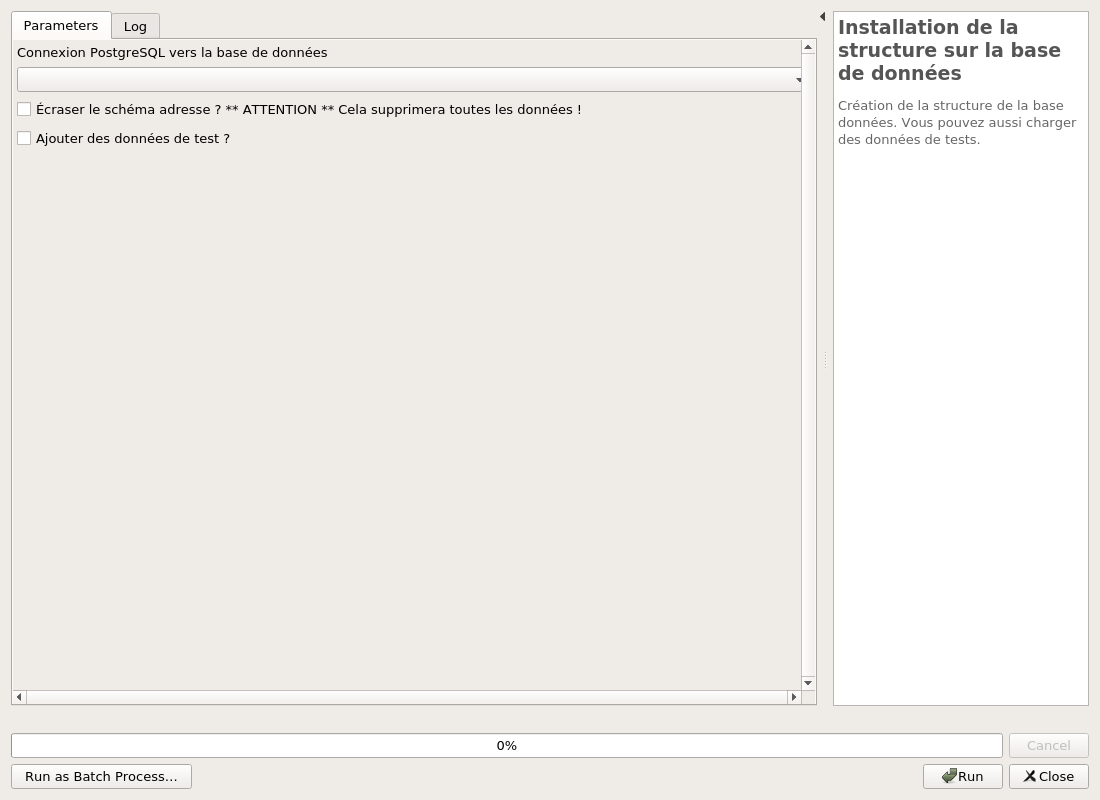
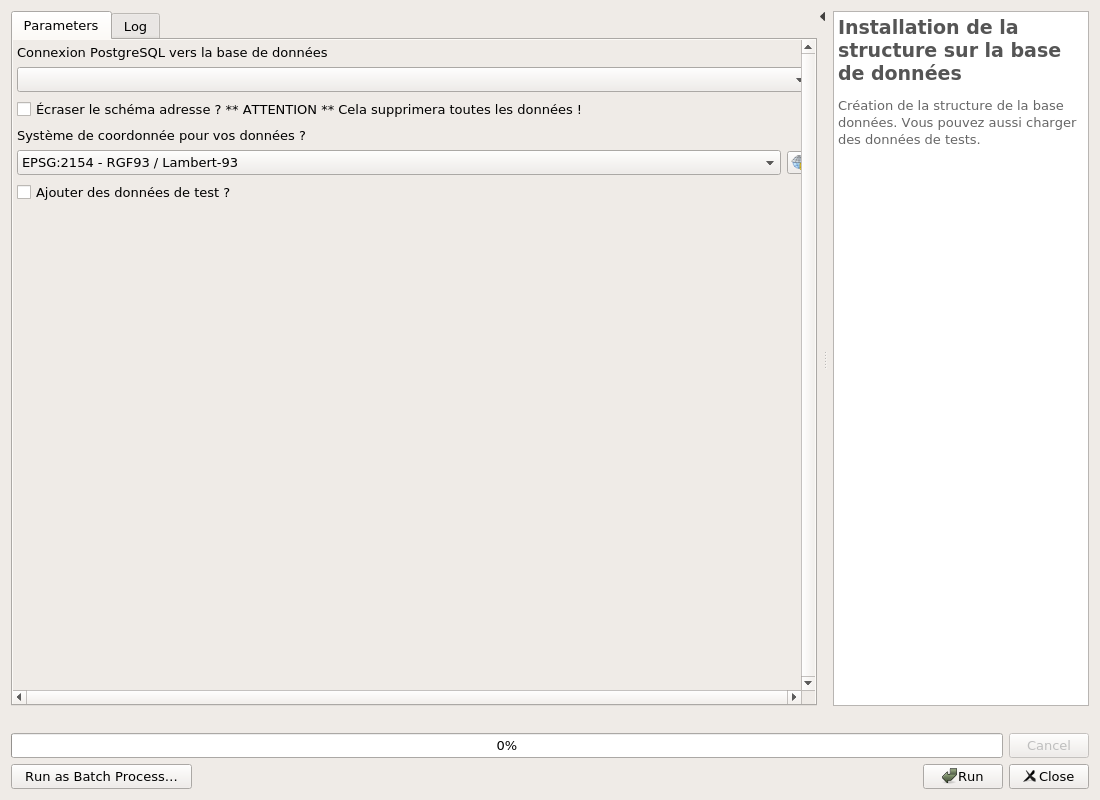
Update processing documentation

Changed region(s): [[0.0, 0.1562, 0.2782, 0.25], [0.68, 0.1875, 0.7418, 0.2188]]

diff --git a/docs/processing/index.html b/docs/processing/index.html
@@ -4,9 +4,9 @@
  <head>
   <meta charset="utf-8"/>
   <title>Gestion des adresses</title>
-  <link href="https://cdnjs.cloudflare.com/ajax/libs/highlight.js/8.1/styles/github.min.css" rel="stylesheet"/>
-  <link href="https://docs.3liz.org/remarkable.css" rel="stylesheet"/>
-  <link href="../icon.png" rel="icon" type="image/png" >
+  <link type="text/css" href="https://cdnjs.cloudflare.com/ajax/libs/highlight.js/8.1/styles/github.min.css" rel="stylesheet"/>
+  <link type="text/css" href="https://docs.3liz.org/remarkable.css" rel="stylesheet"/>
+  <link type="image/png" href="../icon.png" rel="icon" >
  </head>
  <body>
  <header class="header-container" style="">
@@ -154,6 +154,15 @@
 <td align="center"></td>
 </tr>
 <tr>
+<td align="center">SRID</td>
+<td align="center">Système de coordonnée pour vos données ?</td>
+<td align="center">Crs</td>
+<td align="center"></td>
+<td align="center">✓</td>
+<td align="center"></td>
+<td align="center">Default: EPSG:2154 <br></td>
+</tr>
+<tr>
 <td align="center">ADD_TEST_DATA</td>
 <td align="center">Ajouter des données de test ?</td>
 <td align="center">Boolean</td>
@@ -225,6 +234,15 @@
 <td align="center"></td>
 <td align="center"></td>
 </tr>
+<tr>
+<td align="center">SRID</td>
+<td align="center">Projection des géométries</td>
+<td align="center">Crs</td>
+<td align="center"></td>
+<td align="center">✓</td>
+<td align="center"></td>
+<td align="center">Default: EPSG:2154 <br></td>
+</tr>
 </tbody>
 </table>
 <h4 id="outputs_2">Outputs</h4>
@@ -288,6 +306,15 @@
 <td align="center"></td>
 <td align="center"></td>
 <td align="center">Default: cadastre <br></td>
+</tr>
+<tr>
+<td align="center">TRUNCATE_PARCELLE</td>
+<td align="center">Mise à jour de la table parcelle</td>
+<td align="center">Boolean</td>
+<td align="center"></td>
+<td align="center">✓</td>
+<td align="center"></td>
+<td align="center"></td>
 </tr>
 </tbody>
 </table>

diff --git a/docs/user_guide/index.html b/docs/user_guide/index.html
@@ -4,9 +4,9 @@
  <head>
   <meta charset="utf-8"/>
   <title>Gestion des adresses</title>
-  <link href="https://cdnjs.cloudflare.com/ajax/libs/highlight.js/8.1/styles/github.min.css" rel="stylesheet"/>
-  <link href="https://docs.3liz.org/remarkable.css" rel="stylesheet"/>
-  <link href="../icon.png" rel="icon" type="image/png" >
+  <link type="text/css" href="https://cdnjs.cloudflare.com/ajax/libs/highlight.js/8.1/styles/github.min.css" rel="stylesheet"/>
+  <link type="text/css" href="https://docs.3liz.org/remarkable.css" rel="stylesheet"/>
+  <link type="image/png" href="../icon.png" rel="icon" >
  </head>
  <body>
  <header class="header-container" style="">

diff --git a/docs/index.html b/docs/index.html
@@ -4,9 +4,9 @@
  <head>
   <meta charset="utf-8"/>
   <title>Gestion Adresse</title>
-  <link href="https://cdnjs.cloudflare.com/ajax/libs/highlight.js/8.1/styles/github.min.css" rel="stylesheet"/>
-  <link href="https://docs.3liz.org/remarkable.css" rel="stylesheet"/>
-  <link href="icon.png" rel="icon" type="image/png" >
+  <link type="text/css" href="https://cdnjs.cloudflare.com/ajax/libs/highlight.js/8.1/styles/github.min.css" rel="stylesheet"/>
+  <link type="text/css" href="https://docs.3liz.org/remarkable.css" rel="stylesheet"/>
+  <link type="image/png" href="icon.png" rel="icon" >
  </head>
  <body>
  <header class="header-container" style="">

diff --git a/docs/processing/README.md b/docs/processing/README.md
@@ -49,6 +49,7 @@ Création de la structure de la base données. Vous pouvez aussi charger des don
 |:-:|:-:|:-:|:-:|:-:|:-:|:-:|
 CONNECTION_NAME|Connexion PostgreSQL vers la base de données|String||✓|||
 OVERRIDE|Écraser le schéma adresse ? ** ATTENTION ** Cela supprimera toutes les données !|Boolean||✓|||
+SRID|Système de coordonnée pour vos données ?|Crs||✓||Default: EPSG:2154 <br> |
 ADD_TEST_DATA|Ajouter des données de test ?|Boolean||✓|||
 
 
@@ -75,6 +76,7 @@ Mise à jour de la base de données suite à une nouvelle version de l'extension
 |:-:|:-:|:-:|:-:|:-:|:-:|:-:|
 CONNECTION_NAME|Connexion PostgreSQL vers la base de données|String||✓|||
 RUN_MIGRATIONS|Cocher cette option pour lancer la mise-à-jour.|Boolean||✓|||
+SRID|Projection des géométries|Crs||✓||Default: EPSG:2154 <br> |
 
 
 #### Outputs
@@ -103,6 +105,7 @@ Ajout des données parcellaire et création des vues pour les certificats de num
 |:-:|:-:|:-:|:-:|:-:|:-:|:-:|
 DATABASE|Connexion à la base de données|String||✓|||
 SCHEMA|Schéma du cadastre contenant les données des parcelles est propriétaires|String||||Default: cadastre <br> |
+TRUNCATE_PARCELLE|Mise à jour de la table parcelle|Boolean||✓|||
 
 
 #### Outputs
